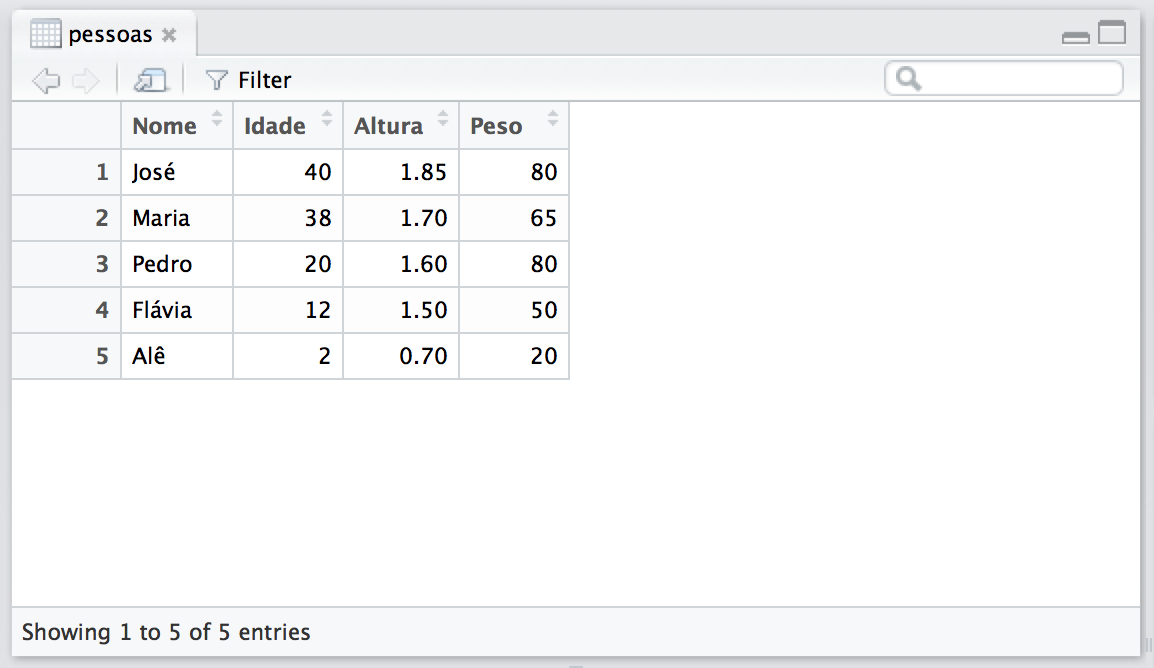
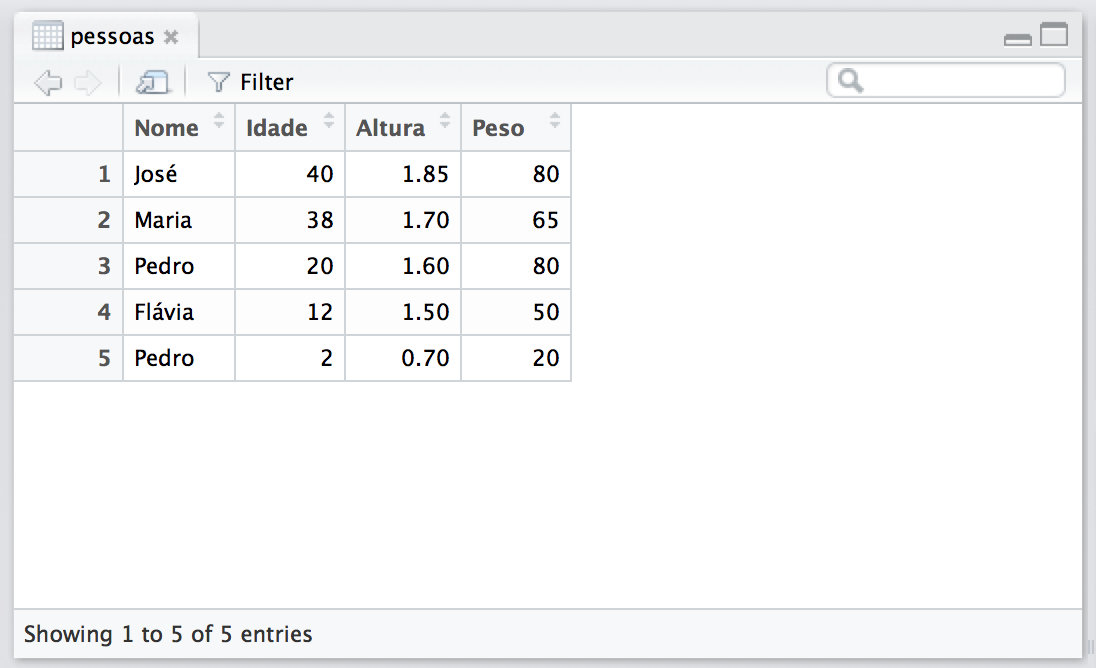
mudança para 4 factors

diff --git a/opbasicas/README.md b/opbasicas/README.md
@@ -304,7 +304,7 @@ José   | 40    | 1.85   | 80
 Maria  | 38    | 1.70   | 65
 Pedro  | 20    | 1.60   | 80
 Flávia | 12    | 1.50   | 50
-Alê    | 2     | 0.70   | 20
+Pedro  | 2     | 0.70   | 20
 
 Seria muito fácil digitar isso em em planilha, não? Dá pra ver o paralelo
 entre linhas e colunas e células na planilha.
@@ -313,7 +313,7 @@ Bem, no R vamos representar esses dados numa variável do tipo data frame,
 da seguinte forma:
 
 ````r
-> pessoas <- data.frame(Nome=c("José", "Maria", "Pedro", "Flávia", "Alê"), Idade=c(40, 38, 20, 12, 2), Altura=c(1.85, 1.70, 1.60, 1.50, 0.70), Peso=c(80, 65, 80, 50, 20))
+> pessoas <- data.frame(Nome=c("José", "Maria", "Pedro", "Flávia", "Pedro"), Idade=c(40, 38, 20, 12, 2), Altura=c(1.85, 1.70, 1.60, 1.50, 0.70), Peso=c(80, 65, 80, 50, 20))
 > 
 ````
 
@@ -357,7 +357,7 @@ Se você digitar o nome dessa variável na console e Enter, teremos:
 2  Maria    38   1.70   65
 3  Pedro    20   1.60   80
 4 Flávia    12   1.50   50
-5    Alê     2   0.70   20
+5  Pedro     2   0.70   20
 > 
 ````
 
@@ -410,5 +410,28 @@ tentado a querer reproduzir as funcionalidades do Excel aqui. Essa
 não é a ideia! Isso é apenas uma visualização básica. O poder do R
 está na linha de comando!
 
+Vamos explorar um pouco mais a variável `pessoas`. Quando criamos 
+esta variável dissemos que a coluna Nomes teria valores do tipo
+texto e as demais colunas teriam valores numéricos. Para verificarmos
+quais são os tipos de valores que cada coluna em uma variável
+data frame tem podemos usar a função `str()` (que é uma abreviação
+para 'structure', ou estrutura).
 
+````r
+> str(pessoas)
+'data.frame':	5 obs. of  4 variables:
+ $ Nome  : Factor w/ 4 levels "Flávia","José",..: 2 3 4 1 4
+ $ Idade : num  40 38 20 12 2
+ $ Altura: num  1.85 1.7 1.6 1.5 0.7
+ $ Peso  : num  80 65 80 50 20
+> 
+````
+
+O resultado da função `str()` nos mostra uma linha para cada coluna
+do data frame, o tipo de variável que aquela coluna possui e depois
+nos dá uma amostra dos primeiros valores de cada coluna.
+
+Mas o que é esse tal de 'Factor' que aparece como o tipo de dado
+para a coluna 'Nome'? É simples: 'Factor' é "um tipo de texto", só
+que "categorizado". 
 
